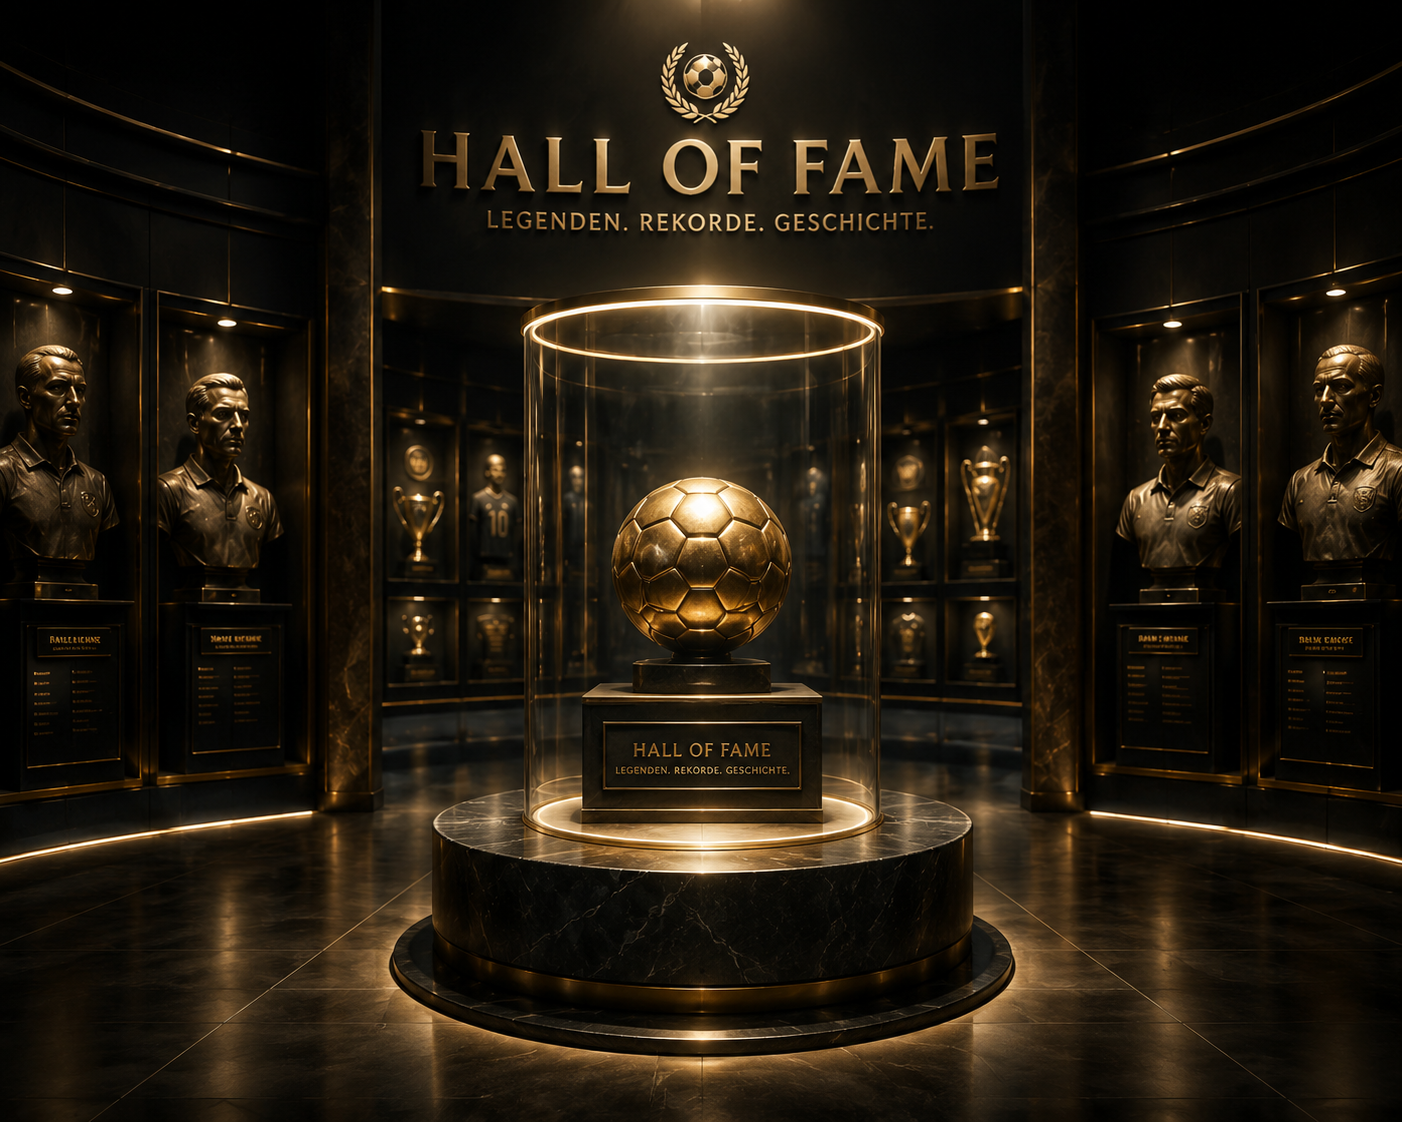
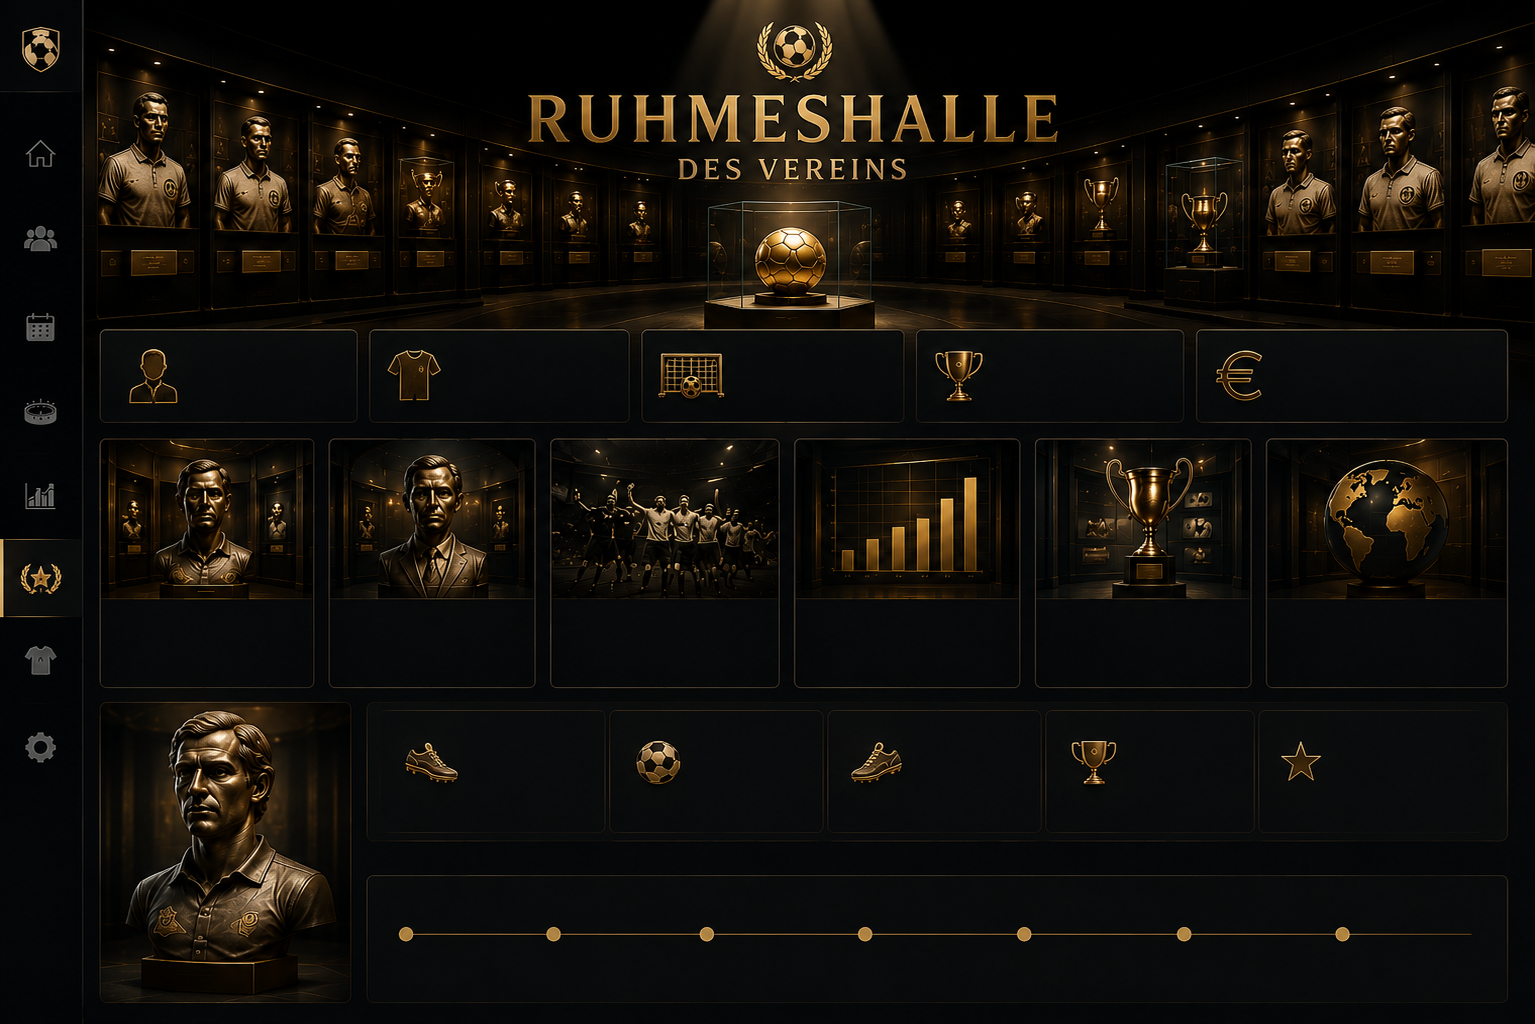
Improve Hall of Fame page design and background image
Update Hall of Fame CSS to increase hero height, adjust overlay gradient, and refine text styling. Also, replace the background image for the hero section.

Replit-Commit-Author: Agent
Replit-Commit-Session-Id: 1eb9f774-0593-498b-bb77-b83224f690ce
Replit-Commit-Checkpoint-Type: full_checkpoint
Replit-Commit-Event-Id: 2ddf1250-feab-4161-bd81-bd97b1dafe00
Replit-Commit-Screenshot-Url: https://storage.googleapis.com/screenshot-production-us-central1/6e4eaecc-e6c5-4f64-8de5-e8845034f33b/1eb9f774-0593-498b-bb77-b83224f690ce/JaPcsp5
Replit-Helium-Checkpoint-Created: true

diff --git a/game/static/game/css/halloffame.css b/game/static/game/css/halloffame.css
@@ -7,22 +7,23 @@
 .hof-hero {
     position: relative;
     width: 100%;
-    height: 230px;
+    height: 300px;
     border-radius: 10px;
     overflow: hidden;
     margin-bottom: 14px;
     background-image: var(--hof-bg);
     background-size: cover;
-    background-position: center 30%;
+    background-position: center top;
 }
 .hof-hero-overlay {
     position: absolute;
     inset: 0;
     background: linear-gradient(
         to bottom,
-        rgba(0,0,0,0.30) 0%,
-        rgba(0,0,0,0.55) 60%,
-        rgba(0,0,0,0.82) 100%
+        rgba(0,0,0,0.10) 0%,
+        rgba(0,0,0,0.20) 40%,
+        rgba(0,0,0,0.72) 80%,
+        rgba(0,0,0,0.90) 100%
     );
 }
 .hof-hero-body {
@@ -33,39 +34,41 @@
     align-items: center;
     justify-content: flex-end;
     height: 100%;
-    padding-bottom: 22px;
-    gap: 3px;
+    padding-bottom: 26px;
+    gap: 2px;
 }
 .hof-hero-emblem {
-    margin-bottom: 4px;
-    opacity: 0.85;
+    margin-bottom: 6px;
+    opacity: 0.90;
 }
 .hof-hero-title {
     font-family: 'Segoe UI', Arial, sans-serif;
-    font-size: 30px;
+    font-size: 34px;
     font-weight: 900;
-    letter-spacing: 0.18em;
+    letter-spacing: 0.20em;
     color: #c9a84c;
     margin: 0;
-    text-shadow: 0 2px 18px rgba(201,168,76,0.50);
+    text-shadow: 0 0 30px rgba(201,168,76,0.60), 0 2px 8px rgba(0,0,0,0.8);
     line-height: 1;
 }
 .hof-hero-sub {
     font-family: 'Segoe UI', Arial, sans-serif;
-    font-size: 10px;
+    font-size: 11px;
     font-weight: 700;
-    letter-spacing: 0.28em;
-    color: rgba(255,255,255,0.55);
+    letter-spacing: 0.32em;
+    color: rgba(255,255,255,0.70);
     margin: 0;
     text-transform: uppercase;
+    text-shadow: 0 1px 6px rgba(0,0,0,0.9);
 }
 .hof-hero-tagline {
     font-family: 'Segoe UI', Arial, sans-serif;
-    font-size: 12px;
-    letter-spacing: 0.06em;
-    color: rgba(255,255,255,0.38);
-    margin: 0;
+    font-size: 12.5px;
+    letter-spacing: 0.08em;
+    color: rgba(255,255,255,0.45);
+    margin: 4px 0 0;
     font-style: italic;
+    text-shadow: 0 1px 6px rgba(0,0,0,0.9);
 }
 
 /* ── KPI ZEILE ─────────────────────────────────────────────────── */

diff --git a/game/templates/game/management/halloffame.html b/game/templates/game/management/halloffame.html
@@ -5,7 +5,7 @@
 {% block body_class %}halloffame-page{% endblock %}
 
 {% block extra_css %}
-<link rel="stylesheet" href="{% static 'game/css/halloffame.css' %}?v=1">
+<link rel="stylesheet" href="{% static 'game/css/halloffame.css' %}?v=2">
 {% endblock %}
 
 {% block content %}
